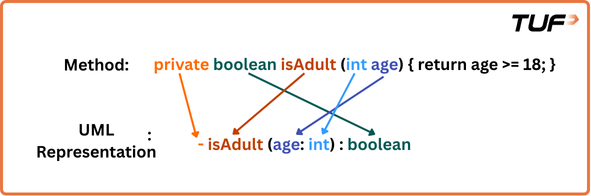
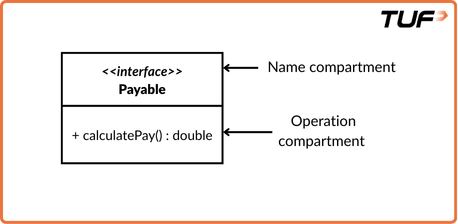
UML section updated!

Changed region(s): [[0.0611, 0.2143, 0.9476, 0.8265], [0.0, 0.0, 1.0, 1.0], [0.6114, 0.4898, 0.7948, 0.5816]]

diff --git a/UML/Imp_Notes.md b/UML/Imp_Notes.md
@@ -19,10 +19,22 @@ Visibility markers define access levels for attributes and operations:
 **Attributes and Method System:**
 
 Attributes:
+- visibility name: Type [multiplicity] = DefaultValue
+  - visibility: The visibility marker (e.g., +, -, #, ~).
+  - name: The name of the attribute.
+  - Type: The data type of the attribute (e.g., int, String).
+  - multiplicity: An optional field indicating how many instances of the attribute can exist (e.g., 0..1, 1..*, etc.).
+  - DefaultValue: An optional default value for the attribute.
 
 ![img_1.png](img_1.png)
 
 Methods (Operations):
+- visibility name(parameterName1: Type1,...): ReturnType
+  - visibility: The visibility marker (e.g., +, -, #, ~).
+  - name: The name of the method.
+  - parameterName1: The name of the first parameter.
+  - Type1: The data type of the first parameter.
+  - ReturnType: The data type of the return value.
 
 ```java
 class Person {
